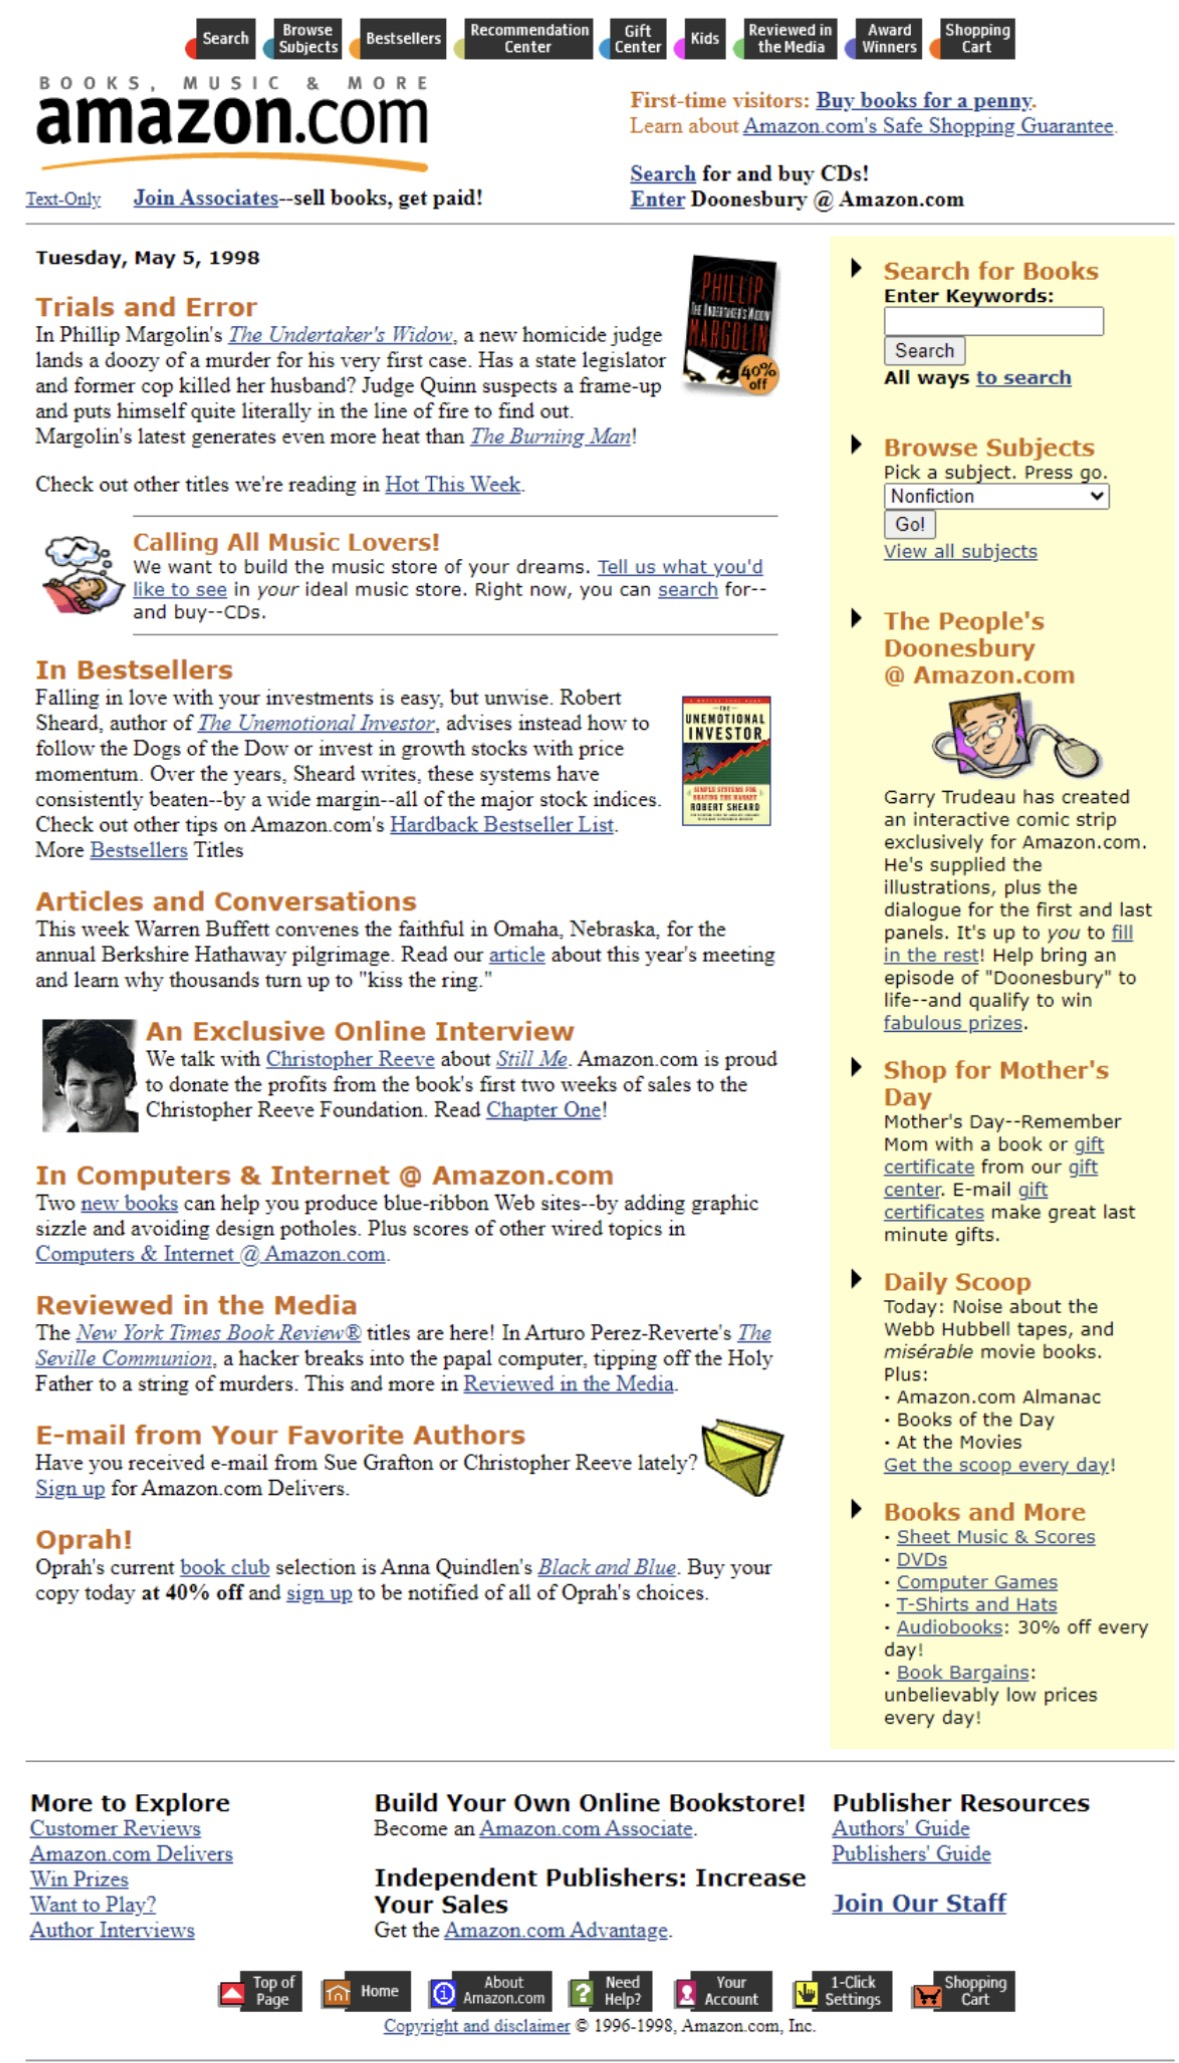
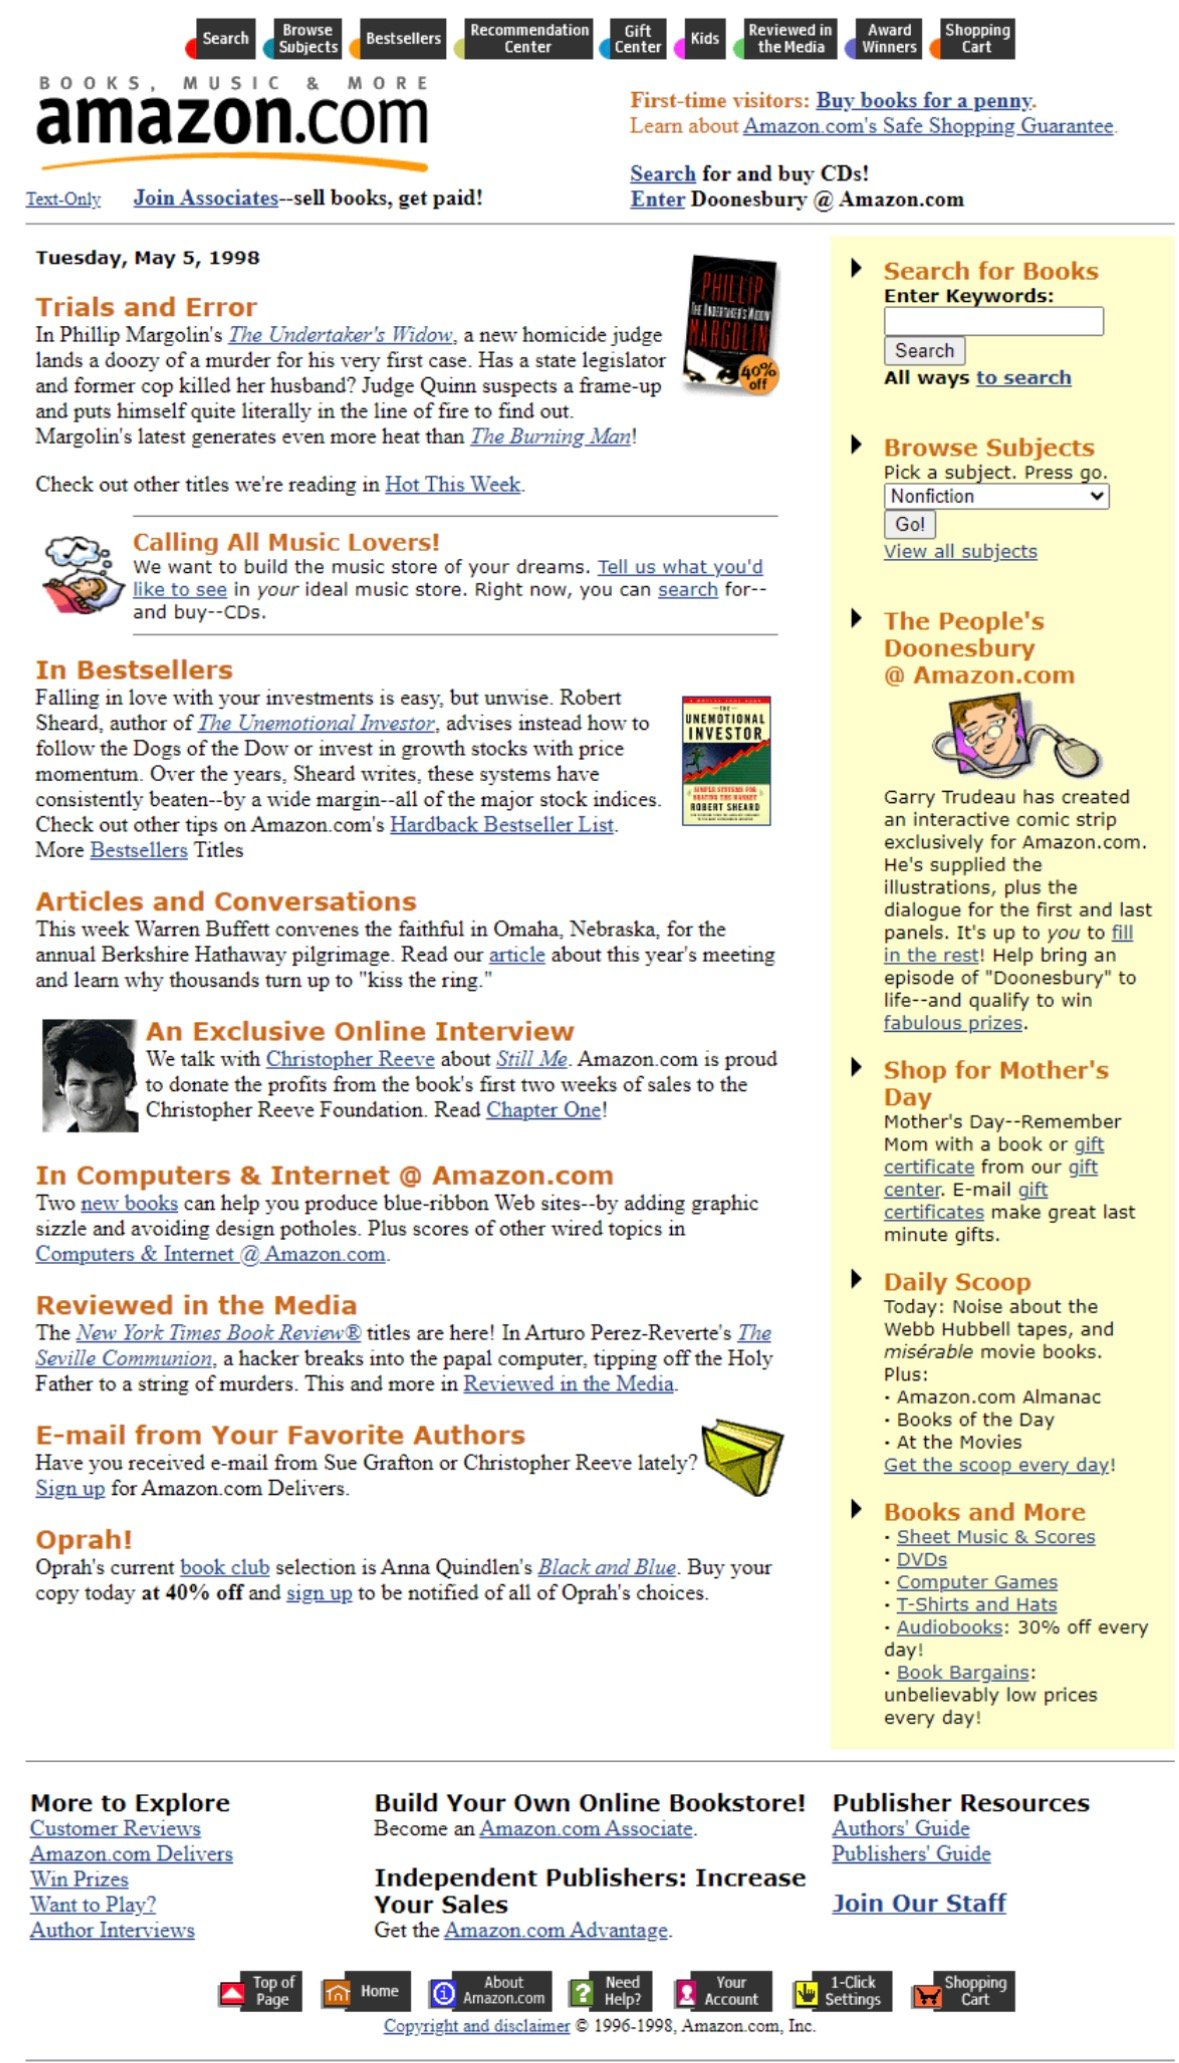
Homepage: Apple and BBC News as 1998 screenshots
Their Wayback captures render poorly, so full-page screenshots stand in,
served locally like Amazon: Apple on May 8, 1998 (two days after the
iMac was unveiled) and BBC News Online on December 12, 1998. Titles and
descriptions say they are pictures. Apple's page fits the width of the
screen, so the iMac shows on the PDA. The Amazon JPEG is re-encoded,
which drops the screenshot's metadata and 180 KB.

Claude-Session: https://claude.ai/code/session_016RRVZHkyvaWhfKCzrDBdgq

Changed region(s): [[0.5802, 0.6825, 0.6412, 0.7135]]

diff --git a/vsl-retro/sites/bbc1998/index.html b/vsl-retro/sites/bbc1998/index.html
@@ -1,0 +1,18 @@
+<!DOCTYPE html>
+<!-- BBC News Online's front page on Saturday, December 12, 1998: a screenshot standing in for a Wayback capture.
+     It is a picture, so the links do not click; that is expected. -->
+<html lang="en">
+<head>
+<meta charset="utf-8">
+<meta name="viewport" content="width=device-width, initial-scale=1">
+<title>BBC News, December 12, 1998</title>
+<style>
+  html, body { margin: 0; background: #fff; }
+  img { display: block; width: 100%; min-width: 480px; max-width: 720px; height: auto; margin: 0 auto; }
+</style>
+</head>
+<body>
+<img src="bbc-news-1998-12-12.png" width="720" height="1740"
+     alt="BBC News Online's front page on Saturday, December 12, 1998. Headlines: Green light for impeachment, as the US House Judiciary Committee votes that President Clinton should face impeachment proceedings; IRA: No arms surrender; Mission to Mars, as an unmanned American space probe is launched from Cape Canaveral; and a bid to save the Leaning Tower of Pisa.">
+</body>
+</html>

diff --git a/vsl-retro/sites/apple1998/index.html b/vsl-retro/sites/apple1998/index.html
@@ -1,0 +1,18 @@
+<!DOCTYPE html>
+<!-- Apple's home page on May 8, 1998, two days after the iMac was unveiled: a screenshot standing in for a Wayback capture.
+     It is a picture, so the links do not click; that is expected. -->
+<html lang="en">
+<head>
+<meta charset="utf-8">
+<meta name="viewport" content="width=device-width, initial-scale=1">
+<title>Apple, May 8, 1998</title>
+<style>
+  html, body { margin: 0; background: #fff; }
+  img { display: block; width: 100%; min-width: 0; max-width: 1101px; height: auto; margin: 0 auto; }
+</style>
+</head>
+<body>
+<img src="apple-1998-05-08.jpg" width="1101" height="1429"
+     alt="Apple's home page on May 8, 1998: a Bondi Blue iMac saying hello (again), the headline iMac, the Jaw-Dropping Rocket Computer, and three products: Pro, Go and Whoa.">
+</body>
+</html>

diff --git a/vsl-retro/README.md b/vsl-retro/README.md
@@ -11,12 +11,14 @@ Plain HTML/CSS/JS — no build step, no dependencies.
 
 - `index.html` + `js/tools.json`: the Visual Systems Lab (13 tools) for /lab.
 - `home.html` + `js/home.json`: the homepage version, framed as "we opened in 1998, so here
-  is the web as it was that year". Fourteen archived pages, every one captured in 1998 (any other
-  year ruins the joke), each checked by hand for a clean Wayback render: Google, AltaVista, Netscape,
-  Apple, Winamp, Nasdaq, CNN/SI NHL and NFL standings, NHL.com, ESPN SportsZone, NBA.com, MLB
-  (Sept 1998), Calgary Herald and BBC News. Amazon.com is a screenshot from May 5, 1998
-  (`sites/amazon1998/`), standing in for a capture; its links do not click. Links with a short timestamp (`19981201if_`) let Wayback
-  jump to the nearest capture, which was confirmed to be 1998. Plus our own 1998 site re-created in `sites/cvc1998/`
+  is the web as it was that year". Every page is from 1998 (any other year ruins the joke). Twelve
+  are Wayback captures, each checked by hand for a clean render: Google, AltaVista, Netscape, Winamp,
+  Nasdaq, CNN/SI NHL and NFL standings, NHL.com, ESPN SportsZone, NBA.com, MLB (Sept 1998) and the
+  Calgary Herald. Links with a short timestamp (`19981201if_`) let Wayback jump to the nearest
+  capture, which was confirmed to be 1998. Three are full-page screenshots served locally, because
+  they look better than their captures: Amazon.com (May 5, 1998), Apple (May 8, 1998) and BBC News
+  (December 12, 1998), in `sites/amazon1998/`, `sites/apple1998/` and `sites/bbc1998/`; their links
+  do not click. Plus our own 1998 site re-created in `sites/cvc1998/`
   (period HTML, our own animated GIFs generated by script), and the live 2026 site, with a
   "1998 called" popup that shows once per visit and just says scroll down for the real site.
   names no individual and makes no comparative claims (College rules): no "best", "latest",
@@ -48,6 +50,8 @@ home.html                   homepage entry point (see above)
 js/home.json                the 17 programs for home.html
 sites/cvc1998/              our 1998 website, re-created (index.html + img/*.gif)
 sites/amazon1998/           Amazon.com on May 5, 1998, as a full-page screenshot (index.html + jpg)
+sites/apple1998/            Apple on May 8, 1998, as a full-page screenshot (index.html + jpg)
+sites/bbc1998/              BBC News on December 12, 1998, as a full-page screenshot (index.html + png)
 assets/monitor.webp         the CRT on a transparent background (1157x1129, cropped to the pixel), screen area dark
 assets/barrel.png           602×495 displacement map, kept for reference; no longer used
 assets/cvc-logo.png         the CVC mark, white on transparent, used by the screensaver

diff --git a/vsl-retro/CLAUDE.md b/vsl-retro/CLAUDE.md
@@ -11,7 +11,7 @@ Read README.md first; it explains the stage, the tube geometry and the effect la
 - All clickable things must be real `<a>`/`<button>` elements with labels. The phone handheld's group windows are generated from tools.json in `build()`; never hand-edit them.
 - The page is embedded on calgaryvisioncentre.com/lab in an iframe; keep `<base target="_top">` so links leave the frame.
 - Homepage copy (home.html, home.json, sites/cvc1998): no individual's name, and no comparative or superiority words (best, latest, advanced, leading, most, superior). The College of Optometrists' advertising rules apply.
-- Homepage archive links (js/home.json) must be Wayback captures from 1998: any other year ruins the "we opened in 1998" joke. The Wayback Machine is blocked from the cloud sandbox, so new candidates are checked by hand in a browser (open without `if_`, read the date in the Wayback bar, confirm the page renders) before they go in; the `href` then uses the same timestamp with `if_`. Napster is not an option (launched June 1999). Where no clean 1998 capture exists, a 1998 screenshot can stand in as a local page under `sites/` (see `sites/amazon1998/`); say in its title and desc that it is a picture.
+- Homepage archive links (js/home.json) must be Wayback captures from 1998: any other year ruins the "we opened in 1998" joke. The Wayback Machine is blocked from the cloud sandbox, so new candidates are checked by hand in a browser (open without `if_`, read the date in the Wayback bar, confirm the page renders) before they go in; the `href` then uses the same timestamp with `if_`. Napster is not an option (launched June 1999). Where no clean 1998 capture exists, or a screenshot looks better, a 1998 screenshot can stand in as a local page under `sites/` (Amazon, Apple and BBC News do; see `sites/amazon1998/`); say in its title and desc that it is a picture.
 - Handheld (phone) view: README.TXT comes first, above the group windows, on both pages, so visitors know why they are looking at a PDA. Tapping a program opens it inside the PDA screen (`.palm-view` iframe, built in app.js), never full screen; Full size is the explicit way out. The three hardware buttons still navigate normally. Keep it short; the homepage title there is just `README.TXT` so it fits.
 - Real links: tools are on calgaryvisioncentre.com (two on drburke-droid.github.io); blog `/blog`; booking `/book-an-appointment`; lab index `/lab`.
 
